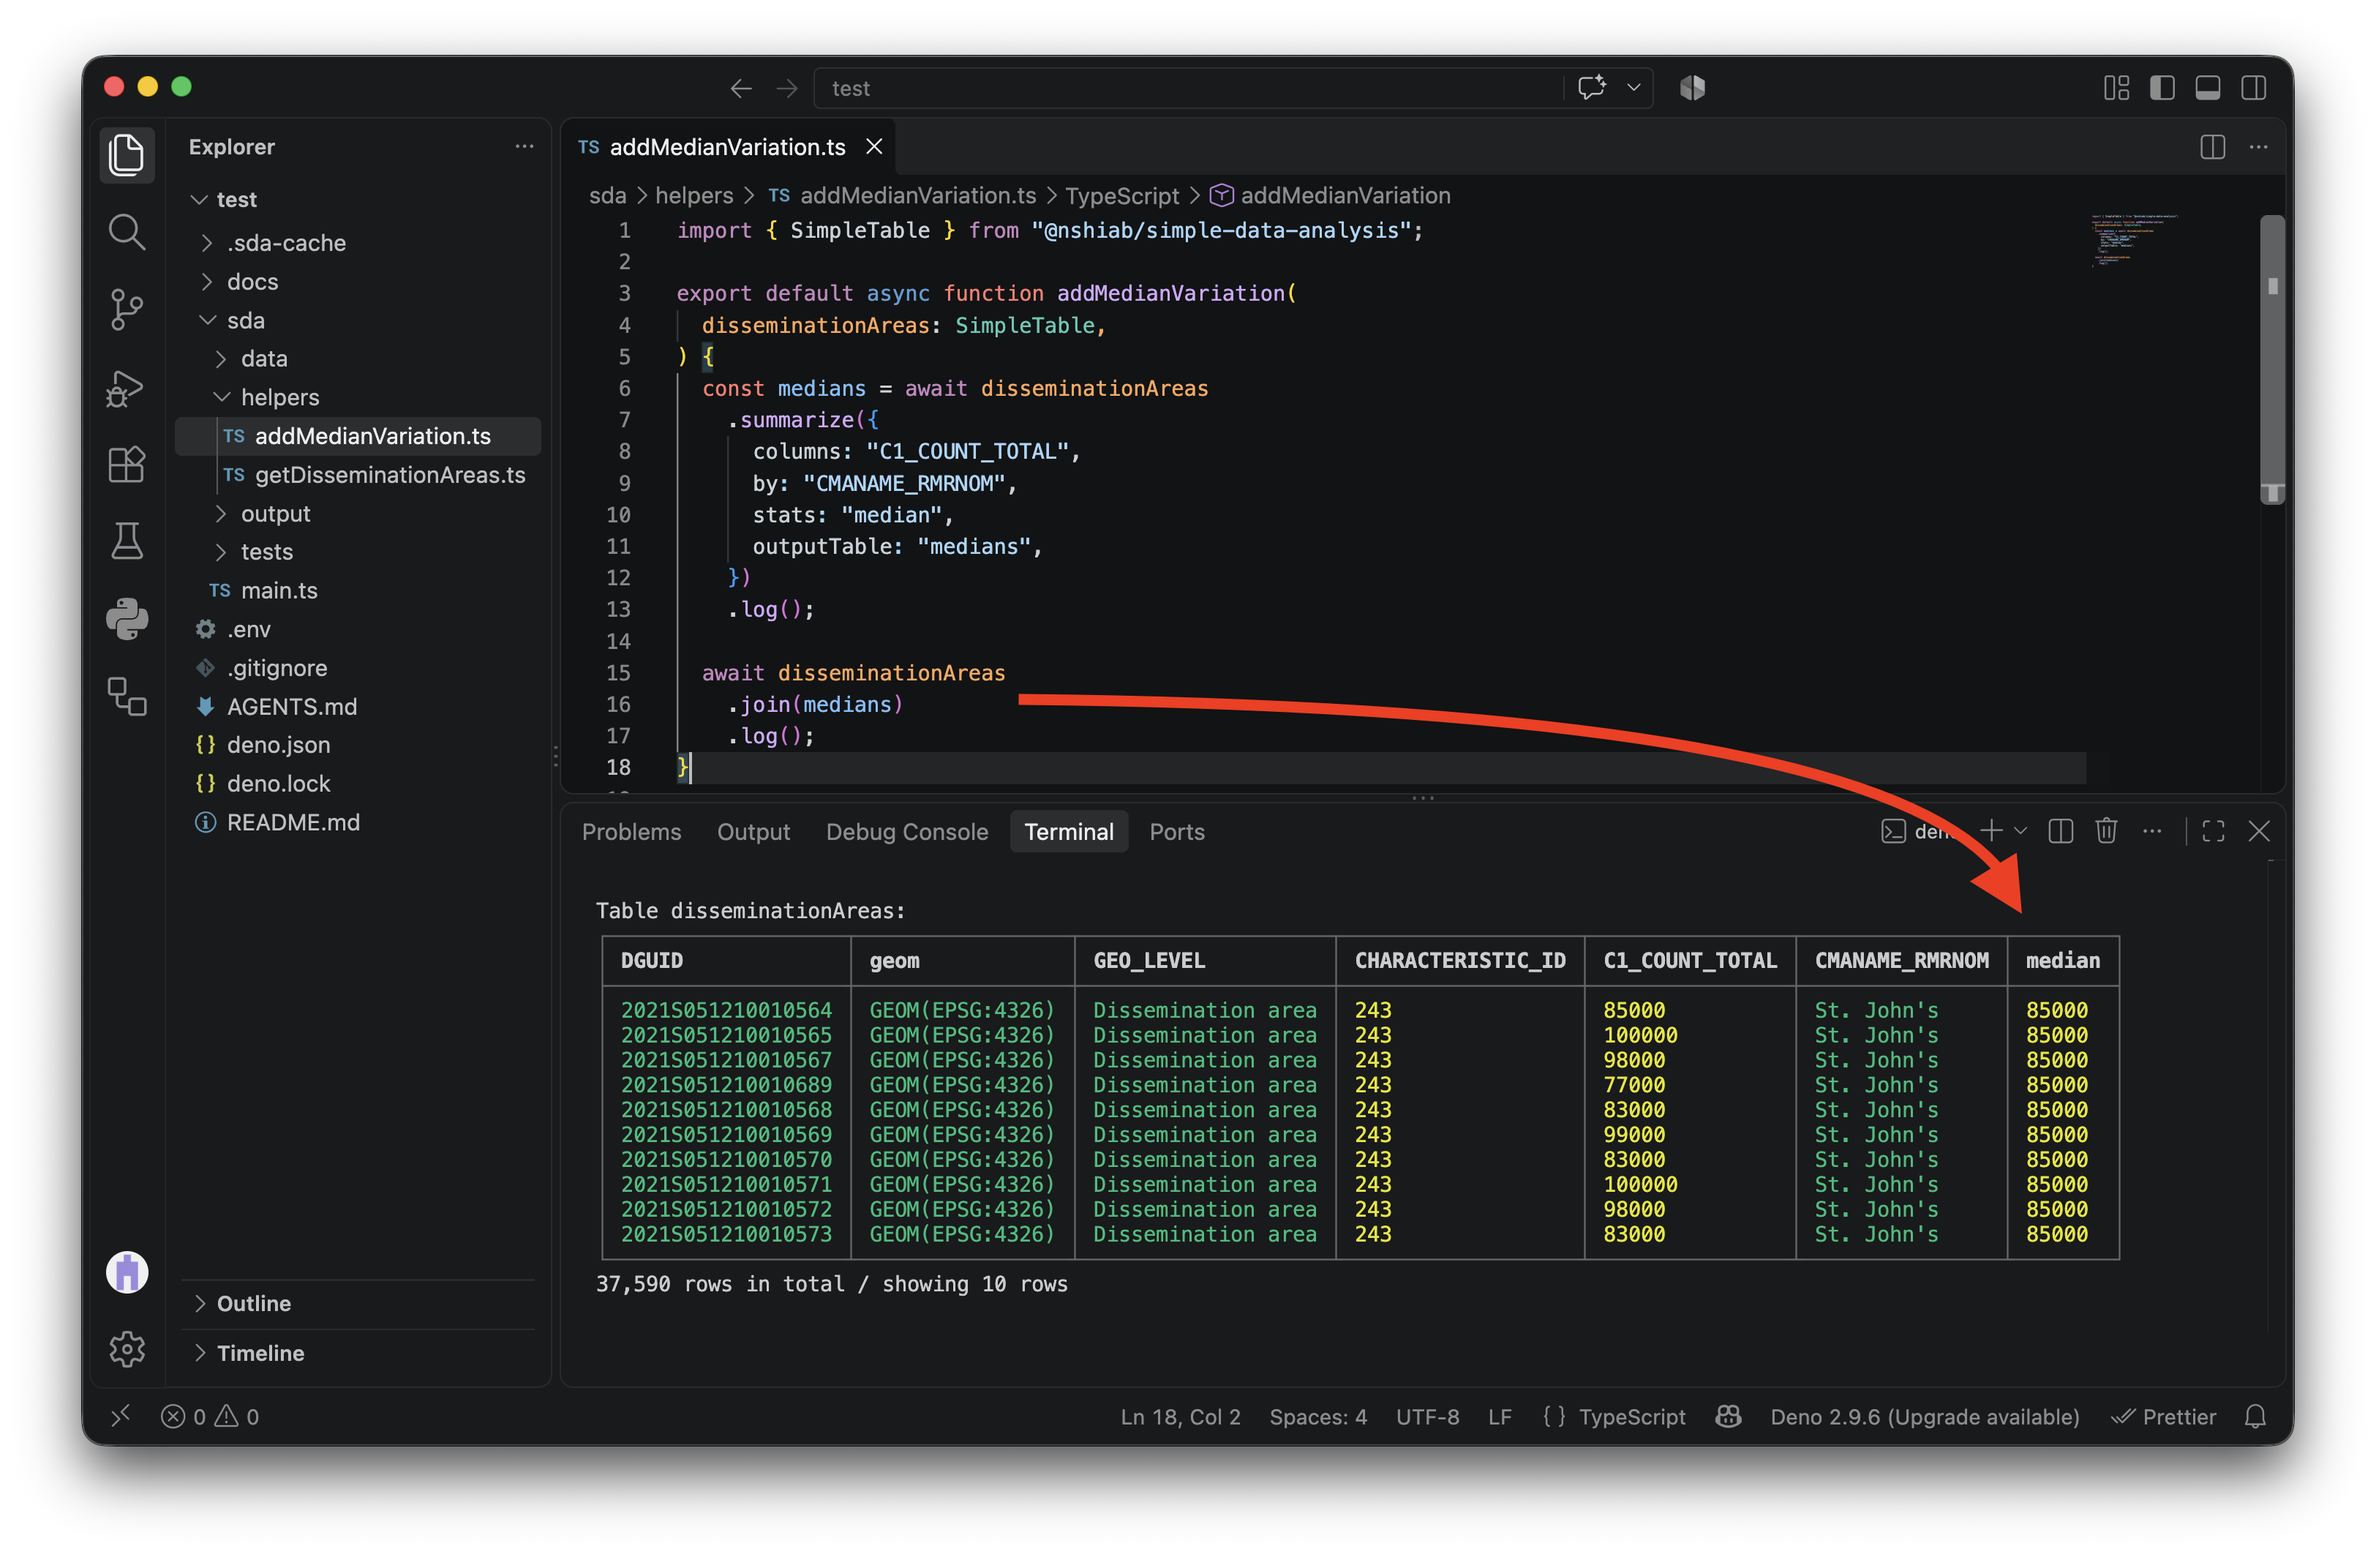
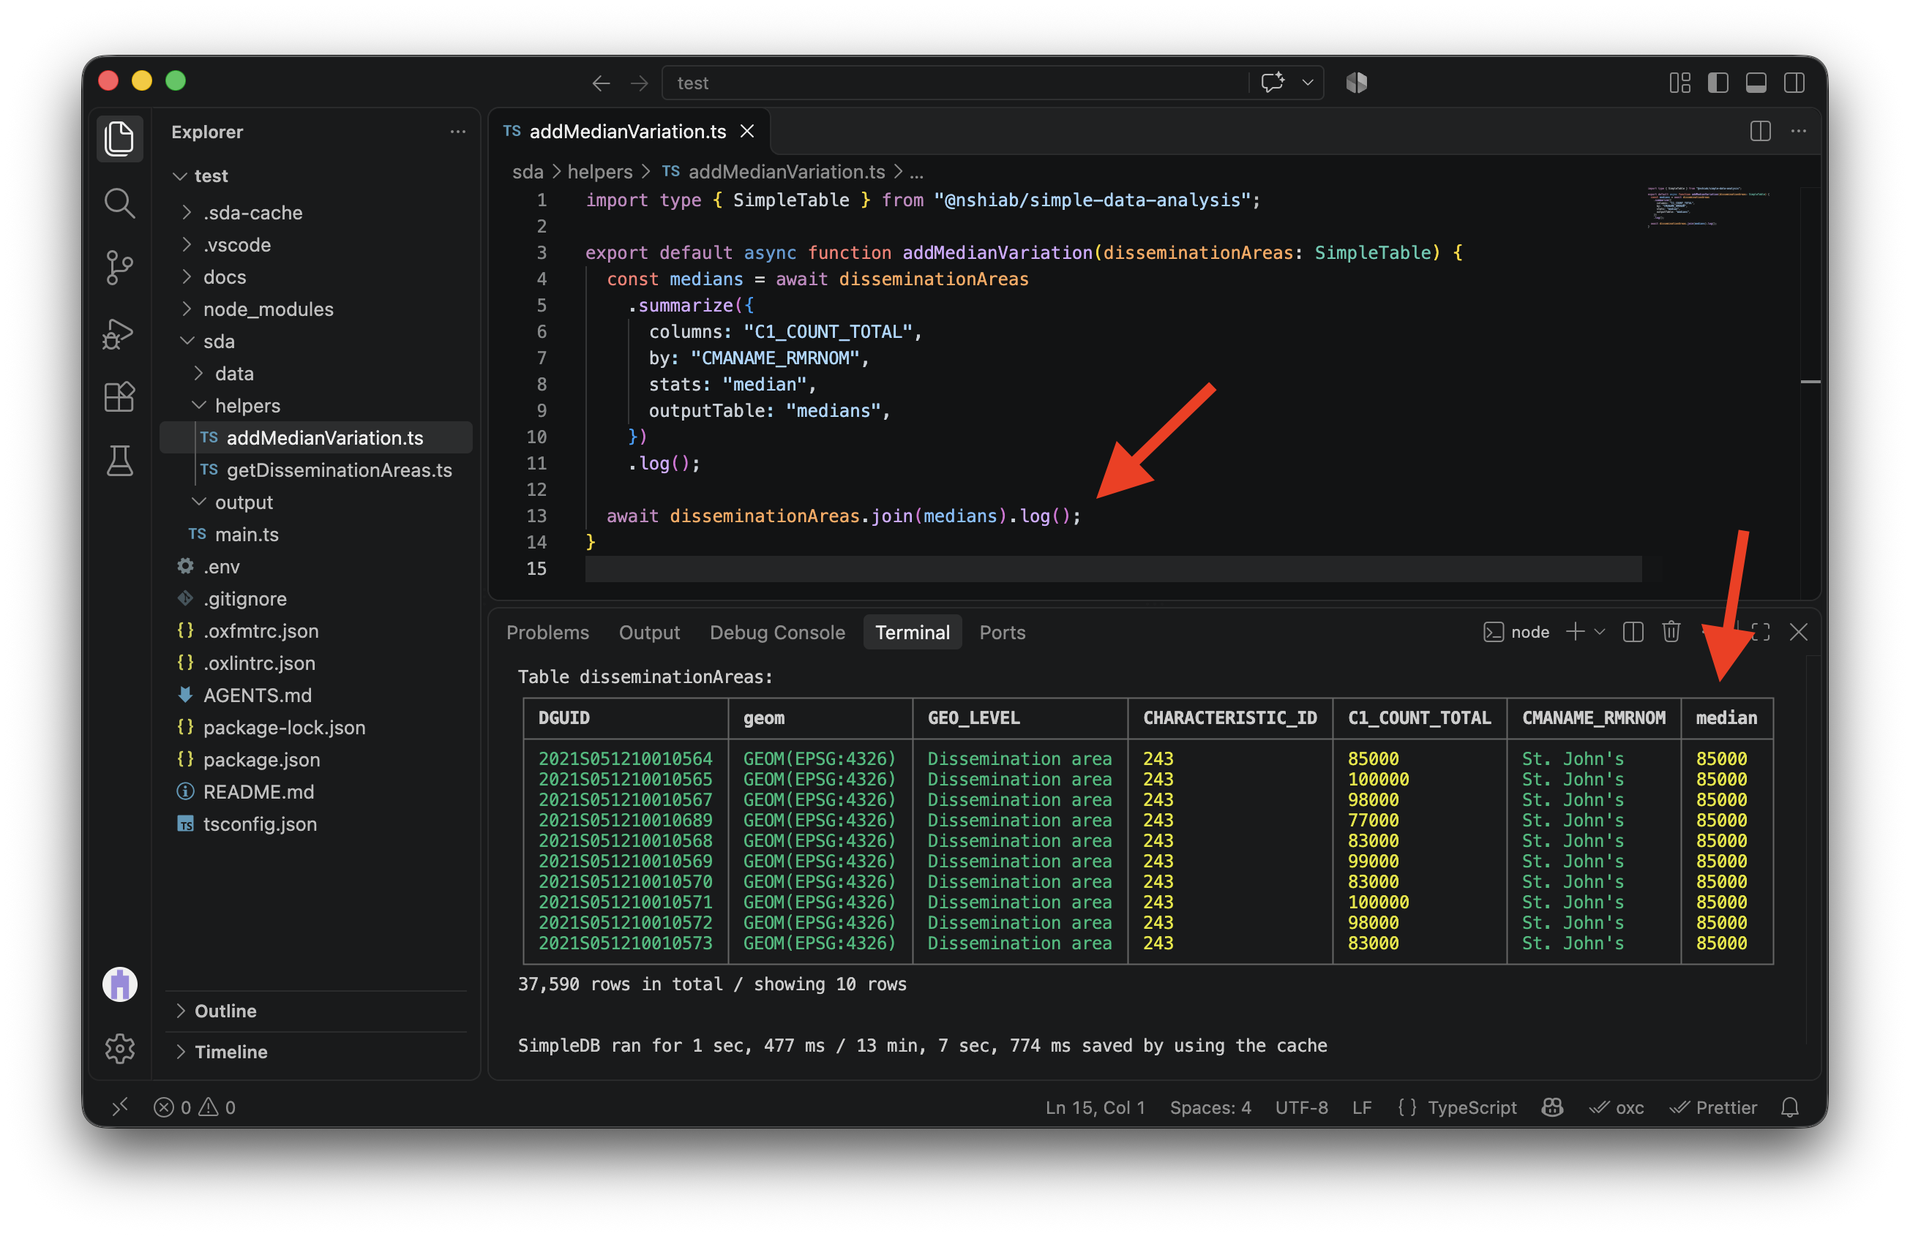
Reorganize course chapters and finish asset updates

diff --git a/content/fr/_meta.js b/content/fr/_meta.js
@@ -7,12 +7,8 @@ export default {
         title: "3. Analyse de données avec SDA",
         theme: { collapsed: false },
     },
-    "advanced-analysis": {
-        title: "4. SDA avancée",
-        theme: { collapsed: false },
-    },
-    "git-and-github": "5. Git et GitHub",
-    "ninja-moves": "6. Aller plus loin",
+    "git-and-github": "4. Git et GitHub",
+    "ninja-moves": "5. Aller plus loin",
     "data-projects": {
         title: "Projets de données",
         theme: { collapsed: false },

diff --git a/content/en/_meta.js b/content/en/_meta.js
@@ -7,12 +7,8 @@ export default {
         title: "3. Data analysis with SDA",
         theme: { collapsed: false },
     },
-    "advanced-analysis": {
-        title: "4. Advanced SDA",
-        theme: { collapsed: false },
-    },
-    "git-and-github": "5. Git & GitHub",
-    "ninja-moves": "6. Going further",
+    "git-and-github": "4. Git & GitHub",
+    "ninja-moves": "5. Going further",
     "data-projects": {
         title: "Data projects",
         theme: { collapsed: false },

diff --git a/README.md b/README.md
@@ -35,7 +35,7 @@ current compatible packages selected by `setup-data-project`.
 
 Validation covers the generated starter, representative runtime examples,
 TypeScript checks of lesson examples, library packaging, the production build,
-and all 82 English/French routes. Live scrapes, the full census analysis, and the
+and all 72 English/French routes. Live scrapes, the full census analysis, and the
 one-billion-row workload are not part of this validation.
 
 ## Screenshots awaiting replacement
